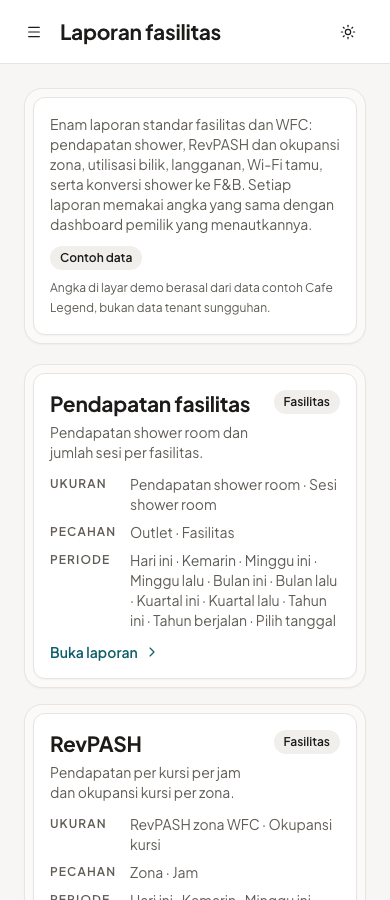
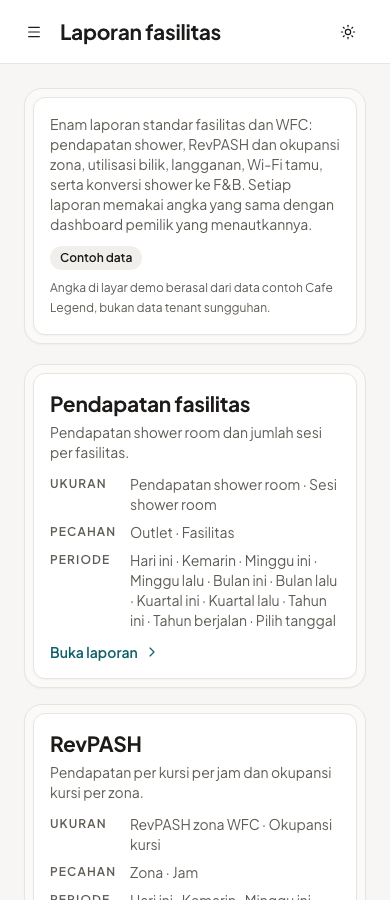
review(facility): shower revenue split, reading copy, hub badge noise (legend-zx8k)

diff --git a/packages/shared/src/i18n/messages/facility-report.ts b/packages/shared/src/i18n/messages/facility-report.ts
@@ -26,9 +26,9 @@ export const facilityReportMessages = {
       revpashTitle: "RevPASH dan okupansi zona",
       revpashBody:
         "RevPASH adalah pendapatan per kursi tersedia per jam: omzet zona dibagi (kursi tersedia × jam buka). Bandingkan zona pada jam yang sama, bukan pada jam berbeda. Okupansi tinggi dengan RevPASH rendah berarti kursi terisi lama tetapi belanjanya kecil, sedangkan RevPASH tinggi dengan okupansi sedang berarti perputaran dan belanja tamu sehat.",
-      utilizationTitle: "Utilisasi bilik per jam",
+      utilizationTitle: "Utilisasi bilik",
       utilizationBody:
-        "Utilisasi bilik membandingkan menit bilik terpakai dengan menit bilik tersedia pada jam buka, dirata-ratakan untuk periode terpilih. Baca per bilik untuk melihat bilik yang jarang terpakai (misalnya karena pembersihan atau perawatan) dan bandingkan dengan rata-rata. Rincian per jam ada di laporan RevPASH yang memecah zona per jam; sesi dihitung dari tiket yang terpakai, bukan tiket yang terjual.",
+        "Utilisasi bilik membandingkan menit bilik terpakai dengan menit bilik tersedia pada jam buka, dirata-ratakan untuk periode terpilih. Baca per bilik untuk melihat bilik yang jarang terpakai (misalnya karena pembersihan atau perawatan) dan bandingkan dengan rata-rata. Sesi dihitung dari tiket yang terpakai, bukan tiket yang terjual.",
       quotaTitle: "Langganan, kuota Wi-Fi, dan konversi",
       quotaBody:
         "Langganan aktif dibaca sebagai jumlah terakhir pada periode, bukan penjumlahan harian. Kuota Wi-Fi menunjukkan GB yang terpakai tamu. Konversi ke F&B adalah sesi shower yang disertai pesanan F&B dibagi seluruh sesi shower, jadi konversi tinggi berarti tamu fasilitas juga membelanjakan di kafe.",

diff --git a/apps/web/src/features/facility-report/components/facility-report-hub.tsx b/apps/web/src/features/facility-report/components/facility-report-hub.tsx
@@ -10,7 +10,6 @@ import { Badge } from "@/components/ui/badge";
 import { CardShell, CardShellBody } from "@/components/ui/card";
 import { EmptyState } from "@/components/ui/feedback-state";
 import {
-  REPORT_FAMILY_INFO,
   reportMetricByCode,
   type ReportDefinition,
 } from "@starter/shared/dashboard";
@@ -59,9 +58,6 @@ function ReportCard({ report }: { report: ReportDefinition }) {
                   {report.description}
                 </p>
               </div>
-              <Badge tone="neutral">
-                {REPORT_FAMILY_INFO[report.family].label}
-              </Badge>
             </div>
             <dl className="grid gap-2">
               <DetailLine

diff --git a/apps/web/src/features/facility-report/mock.ts b/apps/web/src/features/facility-report/mock.ts
@@ -168,14 +168,16 @@ const FACILITY_PRODUCTS: readonly FacilityProduct[] = [
   {
     name: showerFacility.name,
     subscriptions: 18,
-    revenueIdr: 1_050_000,
+    revenueIdr: 1_350_000,
     wifiSessions: 60,
     wifiQuotaGb: 10.2,
   },
   {
     name: wfcFacility.name,
     subscriptions: 5,
-    revenueIdr: 300_000,
+    // `shower_revenue` is shower-room tickets + subscriptions only, so the
+    // WFC row carries none of it (the whole Rp1.350.000 is the shower room's).
+    revenueIdr: 0,
     wifiSessions: 150,
     wifiQuotaGb: 32.5,
   },
